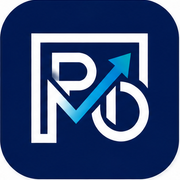
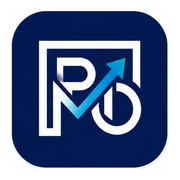
fix: replace chroma-keyed transparency with clean white-card branding
Naive white-to-transparent conversion on the logo images produced a hard
alpha cutoff (no edge feathering), which showed as a jagged halo/artifact
against the dark theme's card background. The app-icon/favicon crop had
the same issue from its own baked-in soft drop shadow being cropped off
mid-fade.

Fix: keep these assets fully opaque (white background baked in, or
padded so the shadow fades into real white pixels) and present the logo
inside an explicit white rounded card via CSS, so branding always
renders cleanly regardless of theme. Also removed the redundant
"PMOTOOLS" heading under the login logo (the wordmark is already in the
image).

Claude-Session: https://claude.ai/code/session_018SGUCB6uQXmd5j1Ljmqp3u

diff --git a/app/globals.css b/app/globals.css
@@ -192,7 +192,7 @@ table, [data-numeric] { font-variant-numeric: tabular-nums; }
 .auth-center { display: flex; align-items: center; justify-content: center; min-height: 100vh; padding: 24px; }
 .auth-card { display: flex; width: 100%; max-width: 400px; flex-direction: column; align-items: center; padding: 40px; border: 1px solid var(--border); border-radius: var(--radius); background: var(--card); }
 .auth-brand { display: flex; width: 100%; flex-direction: column; align-items: center; margin-bottom: 24px; }
-.auth-brand img { height: 112px; width: auto; object-fit: contain; margin-bottom: 12px; }
+.auth-brand img { height: 112px; width: auto; max-width: 100%; object-fit: contain; margin-bottom: 12px; padding: 14px 22px; border-radius: 16px; background: #fff; box-shadow: 0 1px 2px oklch(0 0 0 / 8%); }
 .auth-brand h1 { margin: 0; font: 700 26px/1.2 var(--font-sans); letter-spacing: -0.02em; text-align: center; }
 .auth-brand p { margin: 6px 0 0; color: var(--muted-foreground); font: 500 11px var(--font-mono); letter-spacing: .14em; text-transform: uppercase; text-align: center; }
 .auth-divider { width: 100%; height: 1px; margin-bottom: 24px; background: var(--border); }

diff --git a/app/login/page.tsx b/app/login/page.tsx
@@ -64,7 +64,6 @@ export default function LoginPage() {
       <div className="auth-card">
         <div className="auth-brand">
           <img src="/pmotools-logo-login.png" alt="PMOTOOLS" />
-          <h1>PMOTOOLS</h1>
         </div>
         <div className="auth-divider" />
         <Suspense fallback={null}>
